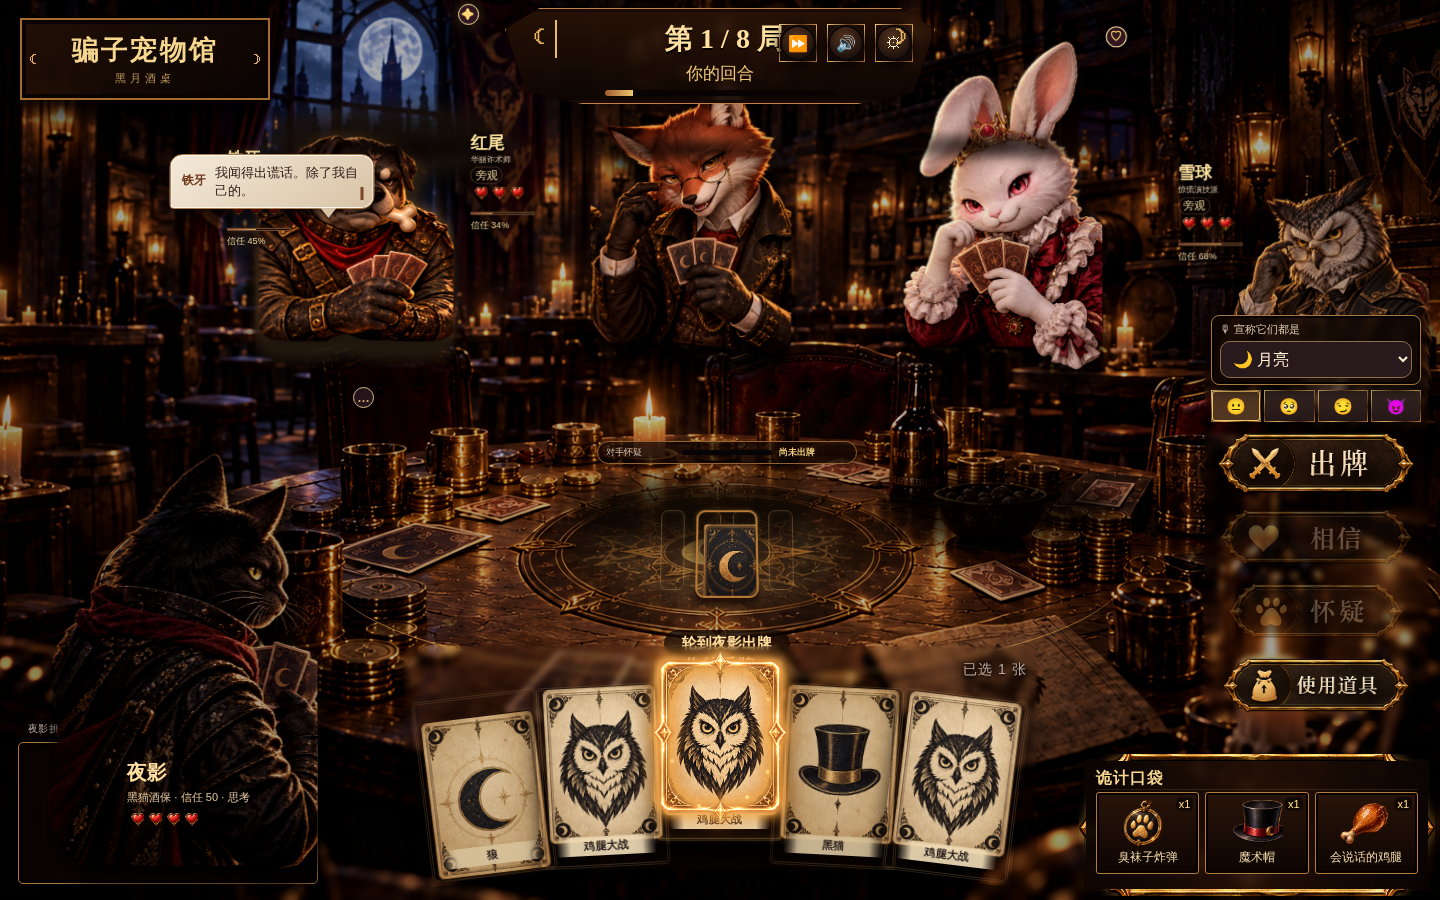
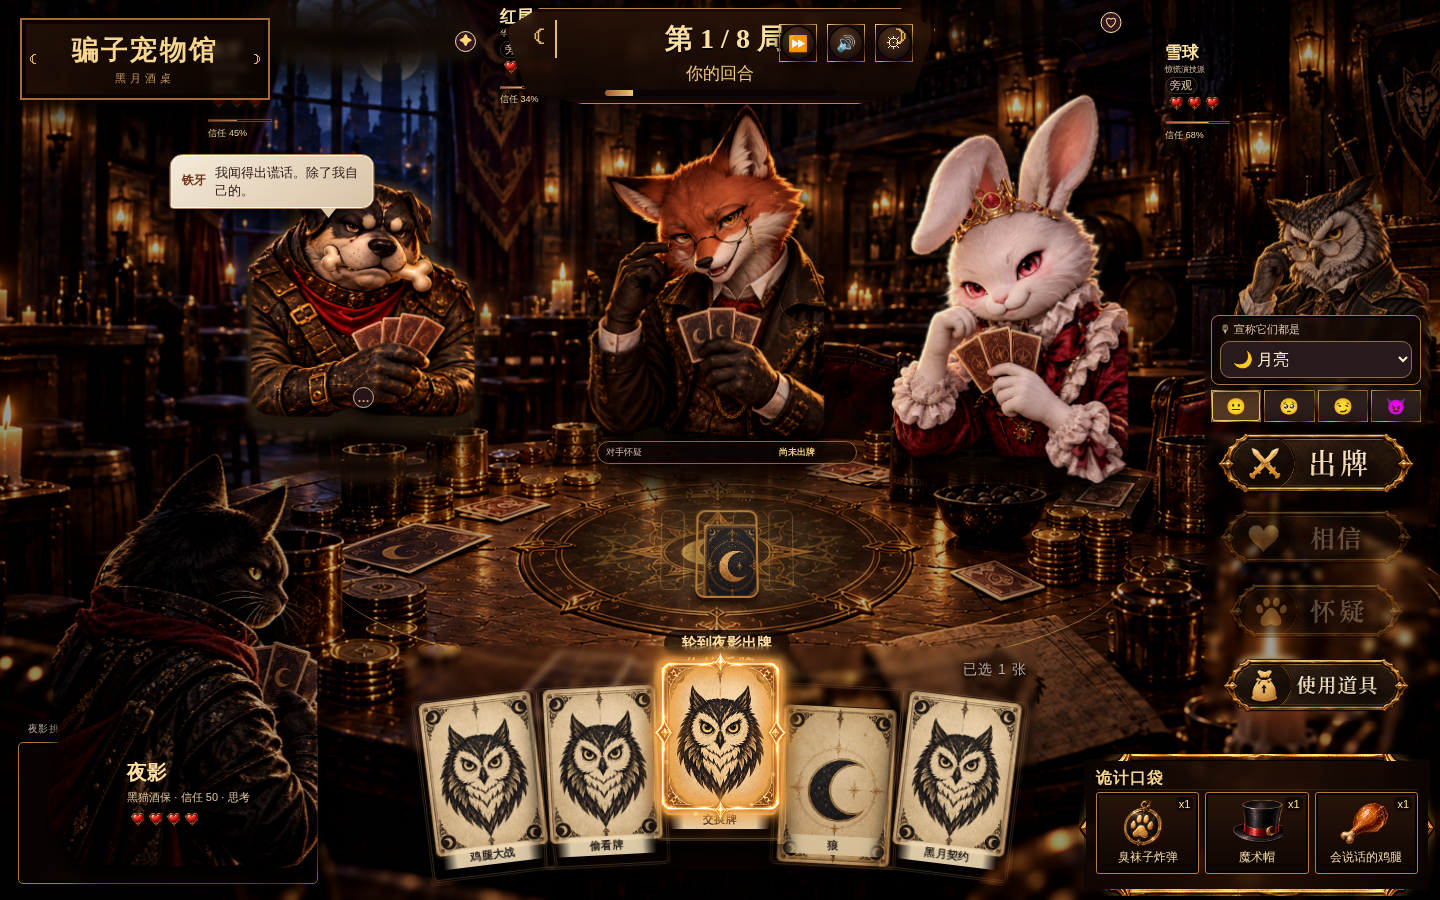
Anchor battle characters to reusable table seats

diff --git a/tests/release-smoke.test.js b/tests/release-smoke.test.js
@@ -6,13 +6,13 @@ const api=context.window.__BLACK_MOON__;assert(api,'缺少调试 API');assert.eq
 api.endIntro();assert.equal(typeof nodes.get('storyModeBtn').onclick,'function','剧情模式按钮不可点击');assert.equal(typeof nodes.get('trialBtn').onclick,'function','黑月试炼按钮不可点击');nodes.get('startBtn').onclick();assert.equal(nodes.get('characterGrid').children.length,4,'角色选择未渲染');nodes.get('confirmCharacterBtn').onclick();assert(nodes.get('hand').children.length>=5,'开局未发牌');assert.match(nodes.get('storyText').textContent,/旧钟街/,'开局剧情未显示');nodes.get('nextStoryBtn').onclick();assert.match(nodes.get('storyText').textContent,/三位对手/,'剧情推进失败');nodes.get('hand').children[0].onclick();nodes.get('skipMotionBtn').onclick();assert.match(nodes.get('motionLog').textContent,/快速结算/);
 for(const event of ['observe','suspect','fooled','discover','win','collapse','penalty']){const rival=api.debug.getState().rivals[0];api.debug.cueReaction(rival,event);assert.equal(rival.reaction,event,`角色事件状态未切换：${event}`);assert(rival.quip,`角色事件缺少随机短台词：${event}`);}for(const effect of ['reveal','success','caught']){api.debug.cameraEffect(effect,'player');assert(nodes.get('battleScreen').classList.contains(`camera-${effect}`),`镜头效果未触发：${effect}`);}
 const demoState=api.debug.getState();demoState.pendingPenalty=true;api.debug.resolvePenalty('accept');assert.equal(demoState.penalties.accept,true,'惩罚选项使用后未锁定');assert.equal(demoState.coins,10,'接受惩罚未发放安慰金币');api.debug.startBoss();assert.equal(demoState.boss,true,'八局后未进入 Boss 阶段');assert.equal(demoState.rivals[0].id,'crow','终局 Boss 不是鸦策');assert.equal(demoState.rivals[0].hp,4,'Boss 生命值不正确');demoState.rivals[0].hp=0;api.debug.beginRound();assert.equal(demoState.bossDefeated,true,'击败 Boss 后未完成试玩闭环');assert.match(nodes.get('endingTitle').textContent,/击败鸦策/,'Boss 奖励结算页未显示');
-const html=fs.readFileSync('index.html','utf8'),js=fs.readFileSync('game.js','utf8'),css=fs.readFileSync('styles.css','utf8');assert(html.includes('assets/main-menu/main-menu-v3.png'),'主菜单未使用指定参考图路径');assert(/<section[^>]+id="menuScreen"[\s\S]*?<img class="menu-art" src="assets\/main-menu\/main-menu-v3\.png"/.test(html),'主菜单未直接渲染指定参考图');assert(!/class="(?:menu-content|menu-cast|menu-scene)/.test(html),'主菜单仍包含旧视觉层');assert(['startBtn','rulesBtn','storyModeBtn','trialBtn','charactersBtn','settingsBtn'].every(id=>new RegExp(`<button class=\"menu-button-image\" id=\"${id}\" aria-label=\"[^\"]+\"><img class=\"menu-button-default\"[^>]+><img class=\"menu-button-highlight\"[^>]+><\\/button>`).test(html)),'主菜单语义化图片按钮不完整');assert(!/<video[^>]+muted/.test(html),'开场动画不应被强制静音');assert(js.includes('startMusic'),'缺少背景音乐启动与自动播放降级逻辑');assert(js.includes("updateViaCache:'none'")&&fs.readFileSync('sw.js','utf8').includes("black-moon-demo-v35")&&fs.readFileSync('sw.js','utf8').includes("event.request.mode === 'navigate'"),'Service Worker 未强制刷新应用壳或缓存版本');assert(!/function playIntro\(\)[\s\S]*?startMusic\(\)[\s\S]*?function freshState/.test(js),'页面加载期间不应启动 AudioContext');assert(js.includes('els.skipIntroBtn.onclick=()=>{startMusic();endIntro();}'),'跳过动画没有初始化音频');assert(!/is-hovered|hover-border|active-menu/.test(js+css),'主菜单仍包含固定 hover 状态');assert(css.includes('.menu-button-image:hover .menu-button-default')&&css.includes('.menu-button-image:focus-visible .menu-button-highlight'),'按钮没有在 hover 与键盘 focus 时切换高亮图片');assert(css.includes('.menu-button-image .menu-button-highlight{display:none}')&&css.includes('.menu-button-highlight{display:block}'),'主菜单高亮图片显隐规则不完整或默认规则权重不足');assert(!/\.menu-button-image:hover[^}]*?(?:border:[^0]|outline:[^0]|box-shadow:(?!none))/.test(css),'图片按钮 hover 出现矩形外框');assert.equal(Object.keys(api.MENU_BUTTON_ASSETS).length,6,'菜单按钮资源映射不完整');assert(/<div class="scene-art battle-scene"[^>]*><img src="assets\/battle\/backgrounds\/wolf_crest_tavern_table\.png"/.test(html),'战斗界面未直接使用沉浸式酒馆背景');assert(html.includes('class="tavern-host"'),'普通牌局缺少右侧鸦策主持人场景层');assert(js.includes("portrait:'assets/characters/portraits/owl_gentleman.png'"),'剧情猫头鹰未使用新立绘');for(const scene of ['main-menu-v3.png','character-select.png','wolf_crest_tavern_table.png','tavern-style.png'])assert(new RegExp(`<img[^>]+${scene.replace('.', '\\.')}[^>]*>`).test(html),`参考图未接入实际 DOM：${scene}`);const ids=[...html.matchAll(/id="([^"]+)"/g)].map(m=>m[1]);assert.equal(ids.length,new Set(ids).size,'HTML 存在重复 ID');
+const html=fs.readFileSync('index.html','utf8'),js=fs.readFileSync('game.js','utf8'),css=fs.readFileSync('styles.css','utf8');assert(html.includes('assets/main-menu/main-menu-v3.png'),'主菜单未使用指定参考图路径');assert(/<section[^>]+id="menuScreen"[\s\S]*?<img class="menu-art" src="assets\/main-menu\/main-menu-v3\.png"/.test(html),'主菜单未直接渲染指定参考图');assert(!/class="(?:menu-content|menu-cast|menu-scene)/.test(html),'主菜单仍包含旧视觉层');assert(['startBtn','rulesBtn','storyModeBtn','trialBtn','charactersBtn','settingsBtn'].every(id=>new RegExp(`<button class=\"menu-button-image\" id=\"${id}\" aria-label=\"[^\"]+\"><img class=\"menu-button-default\"[^>]+><img class=\"menu-button-highlight\"[^>]+><\\/button>`).test(html)),'主菜单语义化图片按钮不完整');assert(!/<video[^>]+muted/.test(html),'开场动画不应被强制静音');assert(js.includes('startMusic'),'缺少背景音乐启动与自动播放降级逻辑');assert(js.includes("updateViaCache:'none'")&&fs.readFileSync('sw.js','utf8').includes("black-moon-demo-v36")&&fs.readFileSync('sw.js','utf8').includes("event.request.mode === 'navigate'"),'Service Worker 未强制刷新应用壳或缓存版本');assert(!/function playIntro\(\)[\s\S]*?startMusic\(\)[\s\S]*?function freshState/.test(js),'页面加载期间不应启动 AudioContext');assert(js.includes('els.skipIntroBtn.onclick=()=>{startMusic();endIntro();}'),'跳过动画没有初始化音频');assert(!/is-hovered|hover-border|active-menu/.test(js+css),'主菜单仍包含固定 hover 状态');assert(css.includes('.menu-button-image:hover .menu-button-default')&&css.includes('.menu-button-image:focus-visible .menu-button-highlight'),'按钮没有在 hover 与键盘 focus 时切换高亮图片');assert(css.includes('.menu-button-image .menu-button-highlight{display:none}')&&css.includes('.menu-button-highlight{display:block}'),'主菜单高亮图片显隐规则不完整或默认规则权重不足');assert(!/\.menu-button-image:hover[^}]*?(?:border:[^0]|outline:[^0]|box-shadow:(?!none))/.test(css),'图片按钮 hover 出现矩形外框');assert.equal(Object.keys(api.MENU_BUTTON_ASSETS).length,6,'菜单按钮资源映射不完整');assert(/<div class="scene-art battle-scene"[^>]*><img src="assets\/battle\/backgrounds\/wolf_crest_tavern_table\.png"/.test(html),'战斗界面未直接使用沉浸式酒馆背景');assert(html.includes('class="tavern-host"'),'普通牌局缺少右侧鸦策主持人场景层');assert(js.includes("portrait:'assets/characters/portraits/owl_gentleman.png'"),'剧情猫头鹰未使用新立绘');for(const scene of ['main-menu-v3.png','character-select.png','wolf_crest_tavern_table.png','tavern-style.png'])assert(new RegExp(`<img[^>]+${scene.replace('.', '\\.')}[^>]*>`).test(html),`参考图未接入实际 DOM：${scene}`);const ids=[...html.matchAll(/id="([^"]+)"/g)].map(m=>m[1]);assert.equal(ids.length,new Set(ids).size,'HTML 存在重复 ID');
 for(const name of ['button-start-game','button-tutorial','button-story-mode','button-black-moon-trial','button-pet-gallery','button-settings'])for(const suffix of ['','-1'])assert(new RegExp(`<link rel="preload" href="assets/menu-buttons/${name}${suffix}\\.png" as="image"`).test(html),`菜单图片未预加载：${name}${suffix}.png`);assert(/\.menu-button-image\{[^}]*width:18\.55%;height:10\.95%/.test(css),'六个菜单按钮没有统一宽高');assert(/\.menu-button-image img\{[^}]*width:100%;height:100%;object-fit:contain/.test(css),'菜单图片没有保持比例');
 assert(/\.menu-button-image\{[^}]*border:0;[^}]*box-shadow:none;[^}]*filter:none/.test(css),'菜单按钮默认状态不应有边框或光效');assert(css.includes('@media(hover:hover) and (pointer:fine)'),'鼠标 hover 样式应仅用于支持悬停的设备');assert(/\.menu-button-image:hover\{[^}]*scale\(1\.04\)[^}]*drop-shadow/.test(css),'菜单 hover 缺少缩放或金色光晕');assert(css.includes('@keyframes menu-reveal')&&css.includes('@keyframes menu-button-in')&&css.includes('@keyframes menu-breathe'),'主菜单入场与背景氛围动画不完整');
 assert.equal((html.match(/class="menu-firefly /g)||[]).length,7,'主菜单应显示 7 只萤火虫');assert(['firefly-a','firefly-b','firefly-c','firefly-d','firefly-pulse'].every(name=>css.includes(`@keyframes ${name}`)),'萤火虫随机路径或明暗动画不完整');assert(!/menu-candle|candle-halo|pet-motion|pet-eyelids|startMenuPetMotion/.test(html+js)&&!/#menuScreen \.candle/.test(css),'旧主菜单蜡烛或宠物动效未清理');assert(/class="select-rivals"[\s\S]*鸦策[\s\S]*铁牙[\s\S]*红尾/.test(html),'角色选择缺少 AI 对手展示');
 assert.equal((html.match(/class="battle-firefly /g)||[]).length,4,'战斗场景应显示 4 只萤火虫');assert(html.includes('class="battle-candle-light"')&&css.includes('@keyframes battle-candle-luminance'),'战斗原图烛光亮度动画缺失');assert(!/<(?:img|source)[^>]+(?:flame|fire)[^>]*>/i.test(html),'战斗场景不应加载额外火焰图片');assert(['battle-fly-a','battle-fly-b','battle-fly-c','battle-fly-d','battle-firefly-glow'].every(name=>css.includes(`@keyframes ${name}`)),'战斗萤火虫动画不完整');
 assert(js.includes('scheduleBattleBlink')&&js.includes('is-blinking'),'战斗角色缺少随机眨眼调度');assert(['battle-character-idle','battle-character-blink','battle-ear-left','battle-ear-right'].every(name=>css.includes(`@keyframes ${name}`)),'战斗角色呼吸、眨眼或耳朵轻动画不完整');assert(css.includes('.battle .portrait-motion{position:absolute;inset:0')&&css.includes('pointer-events:none'),'角色轻动画不得改变布局或拦截点击');assert(js.includes("['tail','snow'].includes(character.id)"),'兔子与狐狸缺少专属耳朵动作层');
-assert(js.includes('EXPRESSION_FRAMES')&&js.includes('data-expression-frame'),'角色表情没有按心理状态映射到表情表帧');assert(css.includes('aspect-ratio:15/32')&&css.includes('border-image-source:url("assets/battle/ui/buttons/normal/use_item.png")'),'角色单帧比例或新版道具栏外框缺失');
+assert(js.includes('EXPRESSION_FRAMES')&&js.includes('data-expression-frame'),'角色表情没有按心理状态映射到表情表帧');assert(js.includes('seat-slot-${i+1}')&&js.includes('seat-contact'),'对手没有使用可扩展的独立座位结构');assert(css.includes('aspect-ratio:15/32')&&css.includes('border-image-source:url("assets/battle/ui/buttons/normal/use_item.png")'),'角色单帧比例或新版道具栏外框缺失');
 assert(css.includes('grid-template-columns:230px minmax(520px,1fr) 238px'),'桌面战斗页未建立玩家、牌桌、操作栏三列构图');assert(css.includes('.battle .controls{grid-column:3')&&css.includes('.battle .hand-area{grid-column:2'),'操作按钮与玩家手牌没有按参考图分区');assert(!html.includes('assets/references/battle-screen.png'),'实际战斗页不得用参考图整图覆盖');
 assert(css.includes('cards_items_sheet_01.png')&&css.includes('icons_sheet_01.png'),'战斗卡牌或道具未切换到新版精灵表');assert(css.includes('background-size:400% 200%')&&css.includes('.gold-frame')&&css.includes('card-select-flip'),'卡牌精灵裁切、外置选中框或选择动画缺失');assert(js.includes('class="card-art"')&&js.includes('class="gold-frame"')&&js.includes('class="select-sparks"'),'手牌缺少独立卡面、金框或粒子层');assert(js.includes('heartMarkup')&&js.includes('item-icon'),'生命与道具状态没有使用新版图标渲染');
 assert(['button_click','card_hover','card_flip','card_play','trust','doubt'].every(name=>js.includes(name)), '试玩版音效接口不完整');assert(js.includes('floatingFeedback')&&css.includes('hud-delta-rise'),'回合数值反馈缺失');assert.equal(typeof nodes.get('endingMenuBtn').onclick,'function','结果页无法返回主菜单');assert.equal(typeof nodes.get('restartBtn').onclick,'function','结果页无法重新开始');

diff --git a/game.js b/game.js
@@ -211,7 +211,7 @@
   function animate(outcome){els.table.classList.remove('shake','win');void els.table.offsetWidth;els.table.classList.add(outcome==='good'?'win':'shake');tone(outcome);}
   function drawHand(){state.hand=Array.from({length:5},()=>rand(CARDS));state.selected=[];renderHand();}
   function renderHand(){els.hand.innerHTML='';const limit=state.activeEvent?.maxCards||3;state.hand.forEach((card,i)=>{const b=document.createElement('button');b.dataset.cardIndex=i;b.className=`card-btn card-${card.id}${state.selected.includes(i)?' selected':''}`;b.disabled=state.phase!=='player';b.setAttribute('aria-pressed',state.selected.includes(i));b.innerHTML=`<span class="card-art" aria-hidden="true"></span><span class="gold-frame" aria-hidden="true"></span><span class="corner">${card.mark}</span><span class="card-rarity">${card.rarity}</span><span class="card-suit">BLACK MOON</span><span class="card-sigil" aria-hidden="true"></span><span class="emoji">${card.emoji}</span><span class="name">${card.name}</span><span class="select-sparks" aria-hidden="true"><i></i><i></i><i></i><i></i><i></i><i></i></span>`;b.onmouseenter=()=>playSfx('card_hover');b.onclick=()=>{const at=state.selected.indexOf(i);if(at>=0)state.selected.splice(at,1);else if(state.selected.length<limit)state.selected.push(i);else return toast(`本局最多盖 ${limit} 张！`);state.playerMood=state.selected.length?'thinking':'idle';motion(state.selected.length?`${state.player.name}挑起牌角，观察全桌视线。`:`${state.player.name}把牌放回手中。`);tone();renderHand();render();};els.hand.append(b);});els.selectionHint.textContent=state.selected.length?`已选 ${state.selected.length} 张`:`选择 1–${limit} 张`;}
-  function renderOpponents(){els.opponents.innerHTML='';state.rivals.forEach((ai,i)=>{const div=document.createElement('div');div.className=`opponent character-${ai.id} mood-${ai.mood}${ai.reaction?` reaction-${ai.reaction}`:''}${i===state.active&&ai.hp>0?' active':''}${ai.hp<=0?' out':''}`;div.style.setProperty('--hero-color',ai.color||'#a47b56');const status=ai.hp<=0?'离桌':i===state.active?EXPRESSIONS[ai.mood]:'旁观',trust=clamp(ai.trust??Math.round((1-ai.doubt)*100),0,100);div.innerHTML=`<span class="avatar">${portraitMarkup(ai,ai.mood)}${ai.quip?`<q class="reaction-bubble">${ai.quip}</q>`:''}</span><div><strong>${ai.name}</strong><small>${ai.title}</small><span class="pet-status">${status}</span><span class="hp" aria-label="${Math.max(0,ai.hp)} 点生命">${heartMarkup(Math.max(0,ai.hp),ai.maxHp||3)}</span><span class="affinity"><i style="width:${trust}%"></i></span><small class="affinity-label">信任 ${trust}%</small></div>`;els.opponents.append(div);});}
+  function renderOpponents(){els.opponents.innerHTML='';state.rivals.forEach((ai,i)=>{const div=document.createElement('div');div.className=`opponent seat-slot seat-slot-${i+1} character-${ai.id} mood-${ai.mood}${ai.reaction?` reaction-${ai.reaction}`:''}${i===state.active&&ai.hp>0?' active':''}${ai.hp<=0?' out':''}`;div.dataset.seat=String(i+1);div.style.setProperty('--hero-color',ai.color||'#a47b56');const status=ai.hp<=0?'离桌':i===state.active?EXPRESSIONS[ai.mood]:'旁观',trust=clamp(ai.trust??Math.round((1-ai.doubt)*100),0,100);div.innerHTML=`<i class="seat-contact" aria-hidden="true"></i><span class="avatar seat-actor">${portraitMarkup(ai,ai.mood)}${ai.quip?`<q class="reaction-bubble">${ai.quip}</q>`:''}</span><div><strong>${ai.name}</strong><small>${ai.title}</small><span class="pet-status">${status}</span><span class="hp" aria-label="${Math.max(0,ai.hp)} 点生命">${heartMarkup(Math.max(0,ai.hp),ai.maxHp||3)}</span><span class="affinity"><i style="width:${trust}%"></i></span><small class="affinity-label">信任 ${trust}%</small></div>`;els.opponents.append(div);});}
   function renderItems(){els.itemButtons.innerHTML='';ITEMS.forEach(item=>{const available=state.items[item.id],b=document.createElement('button');b.className=`item-${item.id}`;b.disabled=!available||state.phase==='resolving';b.title=item.desc;b.innerHTML=`<b class="item-icon" aria-hidden="true"></b><span>${item.name}</span><small>x${available?1:0}</small>`;b.onclick=()=>useItem(item.id);els.itemButtons.append(b);});}
   function render(){renderOpponents();els.playerHp.innerHTML=heartMarkup(Math.max(0,state.playerHp),4);els.playerHp.setAttribute('aria-label',`${Math.max(0,state.playerHp)} 点生命，信任 ${state.playerTrust}`);els.playerAvatar.innerHTML=`${portraitMarkup(state.player,state.playerMood)}${state.playerQuip?`<q class="reaction-bubble">${state.playerQuip}</q>`:''}`;els.playerAvatar.className=`character-${state.player.id} mood-${state.playerMood}${state.playerReaction?` reaction-${state.playerReaction}`:''}`;els.playerName.textContent=state.player.name;els.playerTitle.textContent=`${state.player.title} · 信任 ${state.playerTrust} · ${EXPRESSIONS[state.playerMood]}`;els.playerAvatar.style.setProperty('--hero-color',state.player.color);els.roundLabel.textContent=state.boss?'终局 BOSS':`第 ${Math.min(state.round,state.maxRounds)} / ${state.maxRounds} 局`;els.progressBar.style.width=`${state.boss?100:Math.min(100,state.round,state.maxRounds)/state.maxRounds*100}%`;els.coinsLabel.innerHTML=`<i class="coin-icon" aria-hidden="true"></i><span>${state.coins}</span>`;els.streakLabel.textContent=`🔥 ${state.streak}`;els.streakLabel.classList.toggle('hot',state.streak>=3);els.turnCallout.textContent=state.boss?'黑月决战':state.phase==='judge'?'判断回合':state.phase==='player'?'你的回合':'揭晓中';els.suspicionBar.style.width=`${state.suspicion===null?0:Math.round(state.suspicion*100)}%`;els.suspicionLabel.textContent=state.suspicion===null?'尚未出牌':state.suspicion<.35?'放松':state.suspicion<.65?'留意':'高度警觉';els.tensionMeter.classList.toggle('danger-zone',state.suspicion>=.65);els.soundBtn.textContent=state.sound?'🔊':'🔇';els.battleScreen.querySelectorAll?.('.round-progress-step').forEach(step=>step.classList.toggle('active',state.round>=Number(step.dataset.round)));renderItems();}
   function setPhase(phase){state.phase=phase;const judge=phase==='judge';els.playBtn.classList.toggle('hidden',judge);els.trustBtn.classList.toggle('hidden',!judge);els.challengeBtn.classList.toggle('hidden',!judge);els.playBtn.disabled=phase!=='player';els.claimSelect.disabled=phase!=='player';[...els.performanceButtons.children].forEach(b=>b.disabled=phase!=='player');renderHand();renderItems();}

diff --git a/styles.css b/styles.css
@@ -728,3 +728,24 @@ body.penalty-vignette:after{content:"";position:fixed;z-index:999;inset:0;pointe
   .battle .opponent .character-sprite{mask-image:linear-gradient(#000 0 92%,rgba(0,0,0,.9) 96%,transparent 100%);-webkit-mask-image:linear-gradient(#000 0 92%,rgba(0,0,0,.9) 96%,transparent 100%)}
 }
 @media(min-width:900px){.battle .opponent:nth-child(1) .portrait-motion{translate:0 9%}}
+
+/* 独立座位系统：每个 slot 以桌沿为底部锚点，新角色只需增加 seat 坐标。 */
+@media(min-width:900px){
+  .battle .opponents{display:block;inset:0;width:auto;height:auto;pointer-events:none}
+  .battle .seat-slot{--seat-x:50%;--seat-bottom:47%;--seat-width:250px;--seat-height:470px;position:absolute;left:var(--seat-x);bottom:var(--seat-bottom);width:var(--seat-width);height:var(--seat-height);translate:-50% 0;transform:none!important;transform-origin:bottom center;animation:none;overflow:visible;pointer-events:none}
+  .battle .seat-slot-1{--seat-x:25%;--seat-width:270px;--seat-height:485px}.battle .seat-slot-2{--seat-x:49%;--seat-width:270px;--seat-height:500px}.battle .seat-slot-3{--seat-x:70%;--seat-width:265px;--seat-height:505px}
+  .battle .seat-slot .seat-actor{position:absolute;inset:0!important;width:100%;height:100%;overflow:visible;transform-origin:bottom center}
+  .battle .seat-slot .portrait-motion{position:absolute;inset:0;translate:0 12%;transform-origin:bottom center}
+  .battle .seat-slot-1 .portrait-motion{translate:0 15%}.battle .seat-slot-2 .portrait-motion{translate:0 12%}.battle .seat-slot-3 .portrait-motion{translate:0 13%}
+  .battle .seat-slot .character-sprite{inset:0 auto 0 50%;height:100%;width:auto;aspect-ratio:15/32;translate:-50% 0;transform-origin:bottom center;mask-image:linear-gradient(#000 0 90%,rgba(0,0,0,.88) 95%,transparent 100%);-webkit-mask-image:linear-gradient(#000 0 90%,rgba(0,0,0,.88) 95%,transparent 100%)}
+  .battle .seat-contact{display:block;position:absolute;z-index:0;left:9%;right:9%;bottom:-4%;height:12%;border-radius:50%;background:radial-gradient(ellipse,#050100e8 0,rgba(22,7,2,.7) 48%,transparent 74%);filter:blur(8px);transform:perspective(140px) rotateX(68deg)}
+  .battle .seat-slot>div{position:absolute;z-index:6;top:15%;width:118px;margin:0!important;translate:0!important}.battle .seat-slot-1>div{left:-2%}.battle .seat-slot-2>div{left:-18%}.battle .seat-slot-3>div{right:-20%}
+}
+/* 选框使用同一张外置 overlay，仅比牌外轮廓多 5%，四角与卡牌对应。 */
+.battle .card-btn .gold-frame{inset:50% auto auto 50%;width:105%;height:105%;translate:-50% -50%;background-position:66.667% 100%;pointer-events:none}
+@media(min-width:900px){.battle .opponents>.seat-slot{top:auto!important;bottom:47%!important}}
+@media(min-width:900px){.battle .opponents>.seat-slot{position:fixed!important;top:auto!important;bottom:47vh!important}}
+@media(min-width:900px){
+  .battle .seat-slot>div{top:28%}
+  .battle .seat-slot-1>div{top:26%}.battle .seat-slot-3>div{top:29%}
+}

diff --git a/sw.js b/sw.js
@@ -1,4 +1,4 @@
-const CACHE = 'black-moon-demo-v35';
+const CACHE = 'black-moon-demo-v36';
 const ASSETS = ['./','./index.html','./styles.css','./game.js','./manifest.webmanifest','./assets/icon.svg','./assets/main-menu/main-menu-v3.png','./assets/references/character-select.png','./assets/battle/backgrounds/wolf_crest_tavern_table.png','./assets/battle/ui/buttons/normal/play.png','./assets/battle/ui/buttons/normal/doubt.png','./assets/battle/ui/buttons/normal/believe.png','./assets/battle/ui/buttons/normal/use_item.png','./assets/battle/ui/buttons/hover/play_hover.png','./assets/battle/ui/buttons/hover/doubt_hover.png','./assets/battle/ui/buttons/hover/believe_hover.png','./assets/battle/ui/buttons/hover/use_item_hover.png','./assets/characters/portraits/player_blackcat.png','./assets/characters/portraits/ironfang_bulldog.png','./assets/characters/portraits/foxtail_fox.png','./assets/characters/portraits/rabbit_noble.png','./assets/characters/portraits/owl_gentleman.png','./assets/characters/animation-sheets/player_blackcat_sheet.png','./assets/characters/animation-sheets/ironfang_bulldog_sheet.png','./assets/characters/animation-sheets/foxtail_fox_sheet.png','./assets/characters/animation-sheets/rabbit_noble_sheet.png','./assets/characters/animation-sheets/owl_gentleman_sheet.png','./assets/effects/fireflies_and_gold_particles_sheet.png','./assets/battle/cards-and-items/cards_items_sheet_01.png','./assets/battle/cards-and-items/icons_sheet_01.png','./assets/menu-buttons/button-start-game.png','./assets/menu-buttons/button-start-game-1.png','./assets/menu-buttons/button-tutorial.png','./assets/menu-buttons/button-tutorial-1.png','./assets/menu-buttons/button-story-mode.png','./assets/menu-buttons/button-story-mode-1.png','./assets/menu-buttons/button-black-moon-trial.png','./assets/menu-buttons/button-black-moon-trial-1.png','./assets/menu-buttons/button-pet-gallery.png','./assets/menu-buttons/button-pet-gallery-1.png','./assets/menu-buttons/button-settings.png','./assets/menu-buttons/button-settings-1.png'];
 self.addEventListener('install', event => event.waitUntil(caches.open(CACHE).then(cache => cache.addAll(ASSETS)).then(() => self.skipWaiting())));
 self.addEventListener('activate', event => event.waitUntil(caches.keys().then(keys => Promise.all(keys.filter(key => key !== CACHE).map(key => caches.delete(key)))).then(() => self.clients.claim())));
